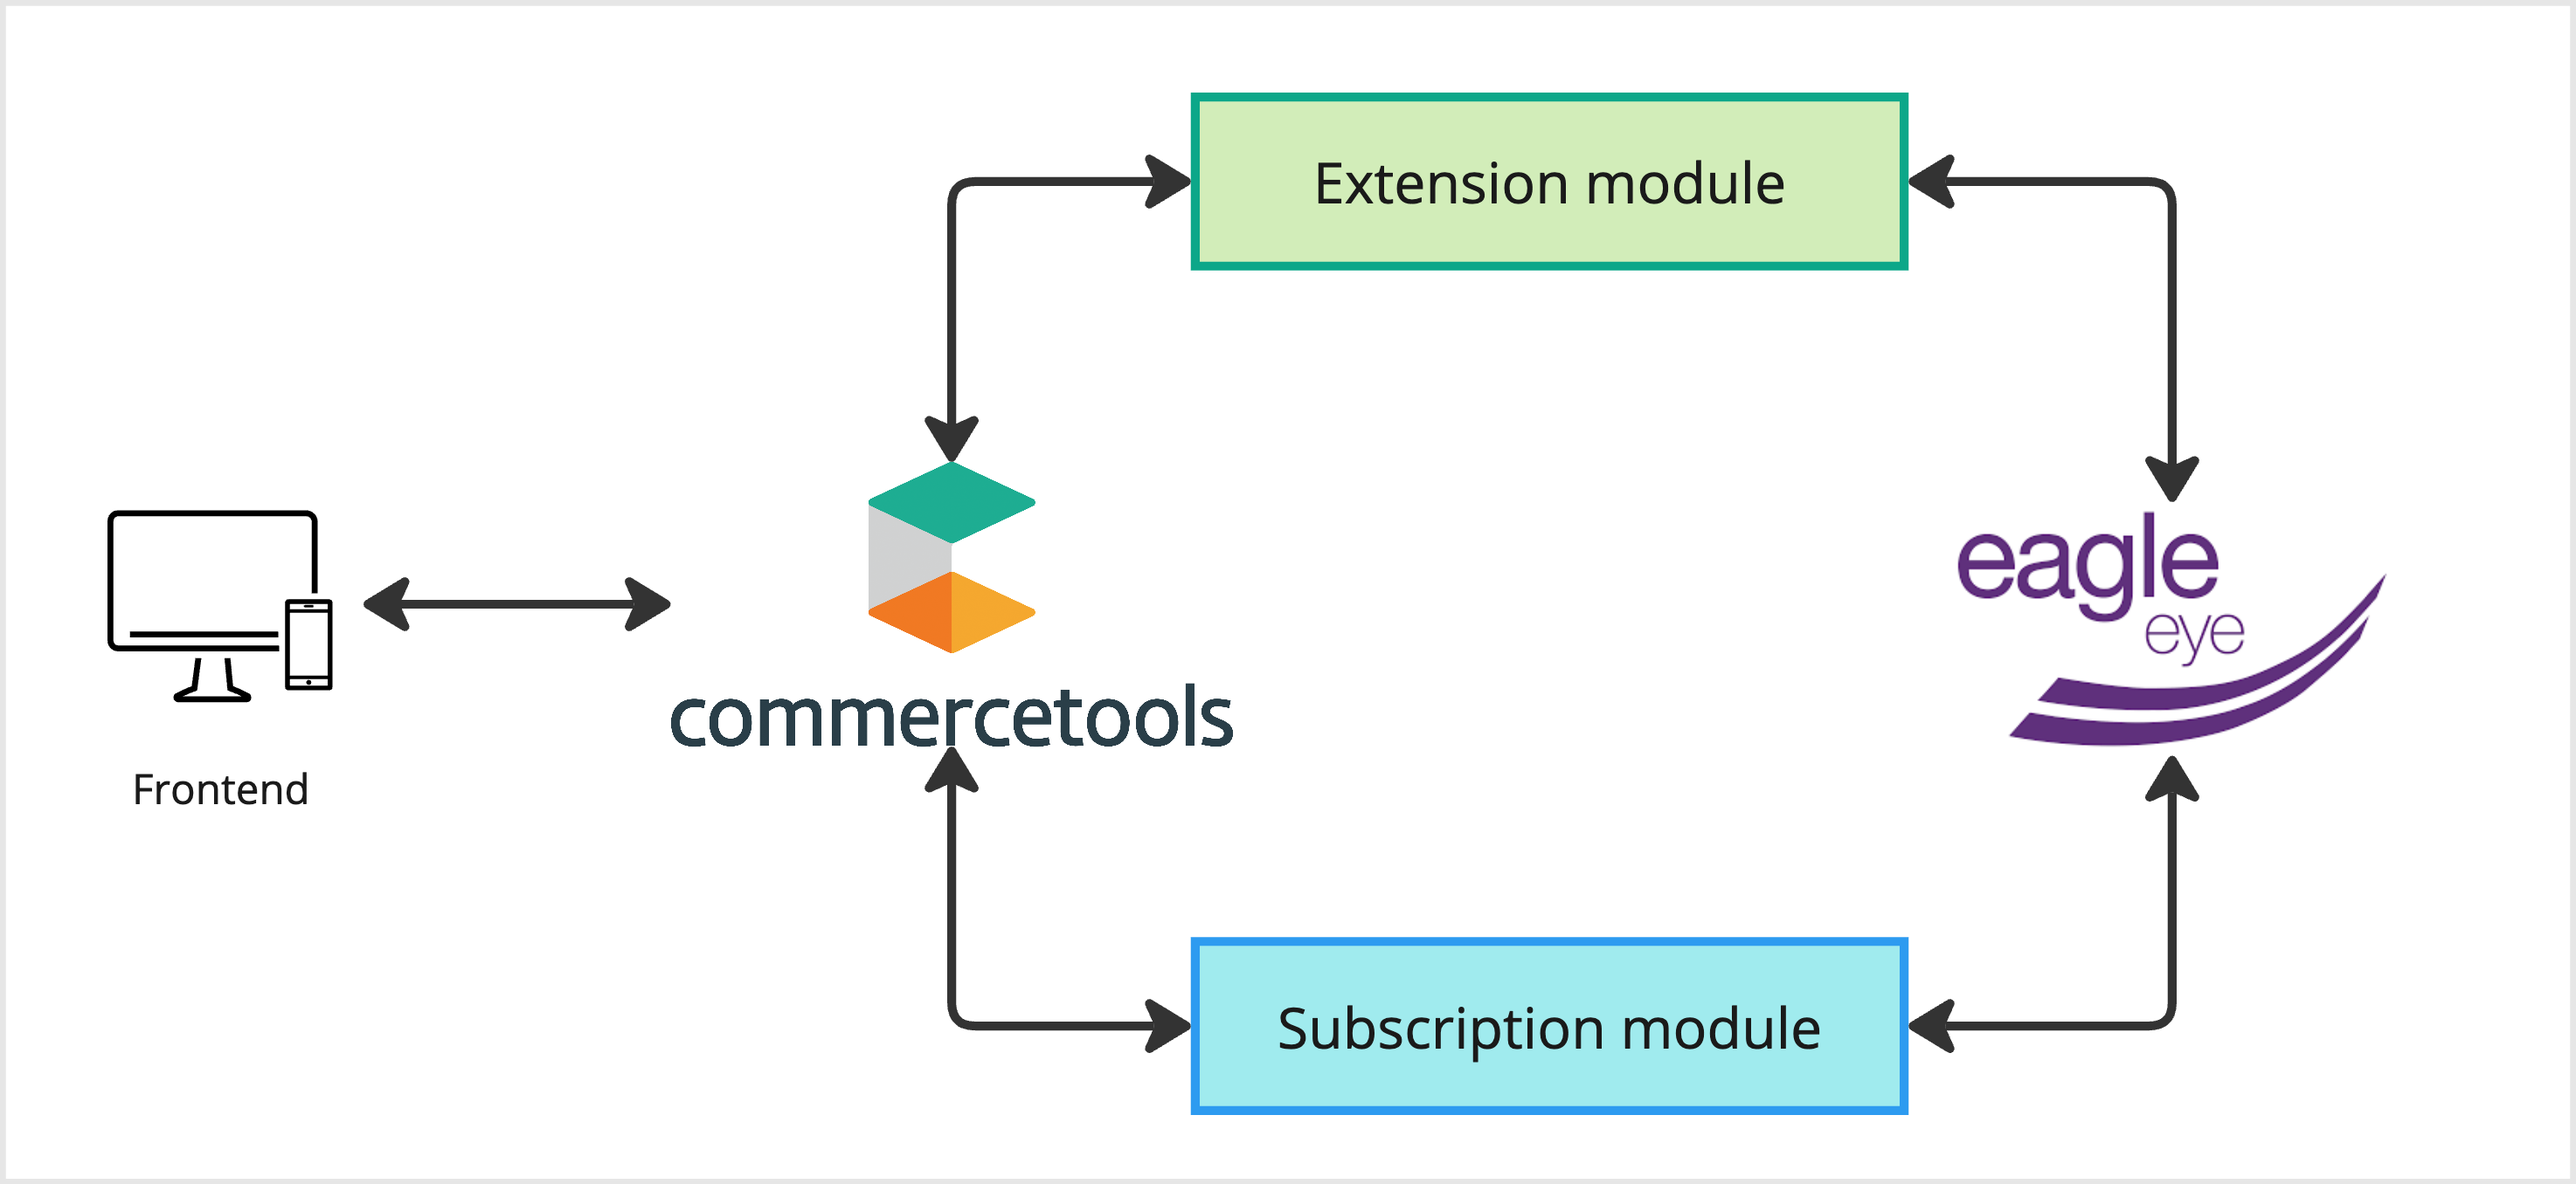
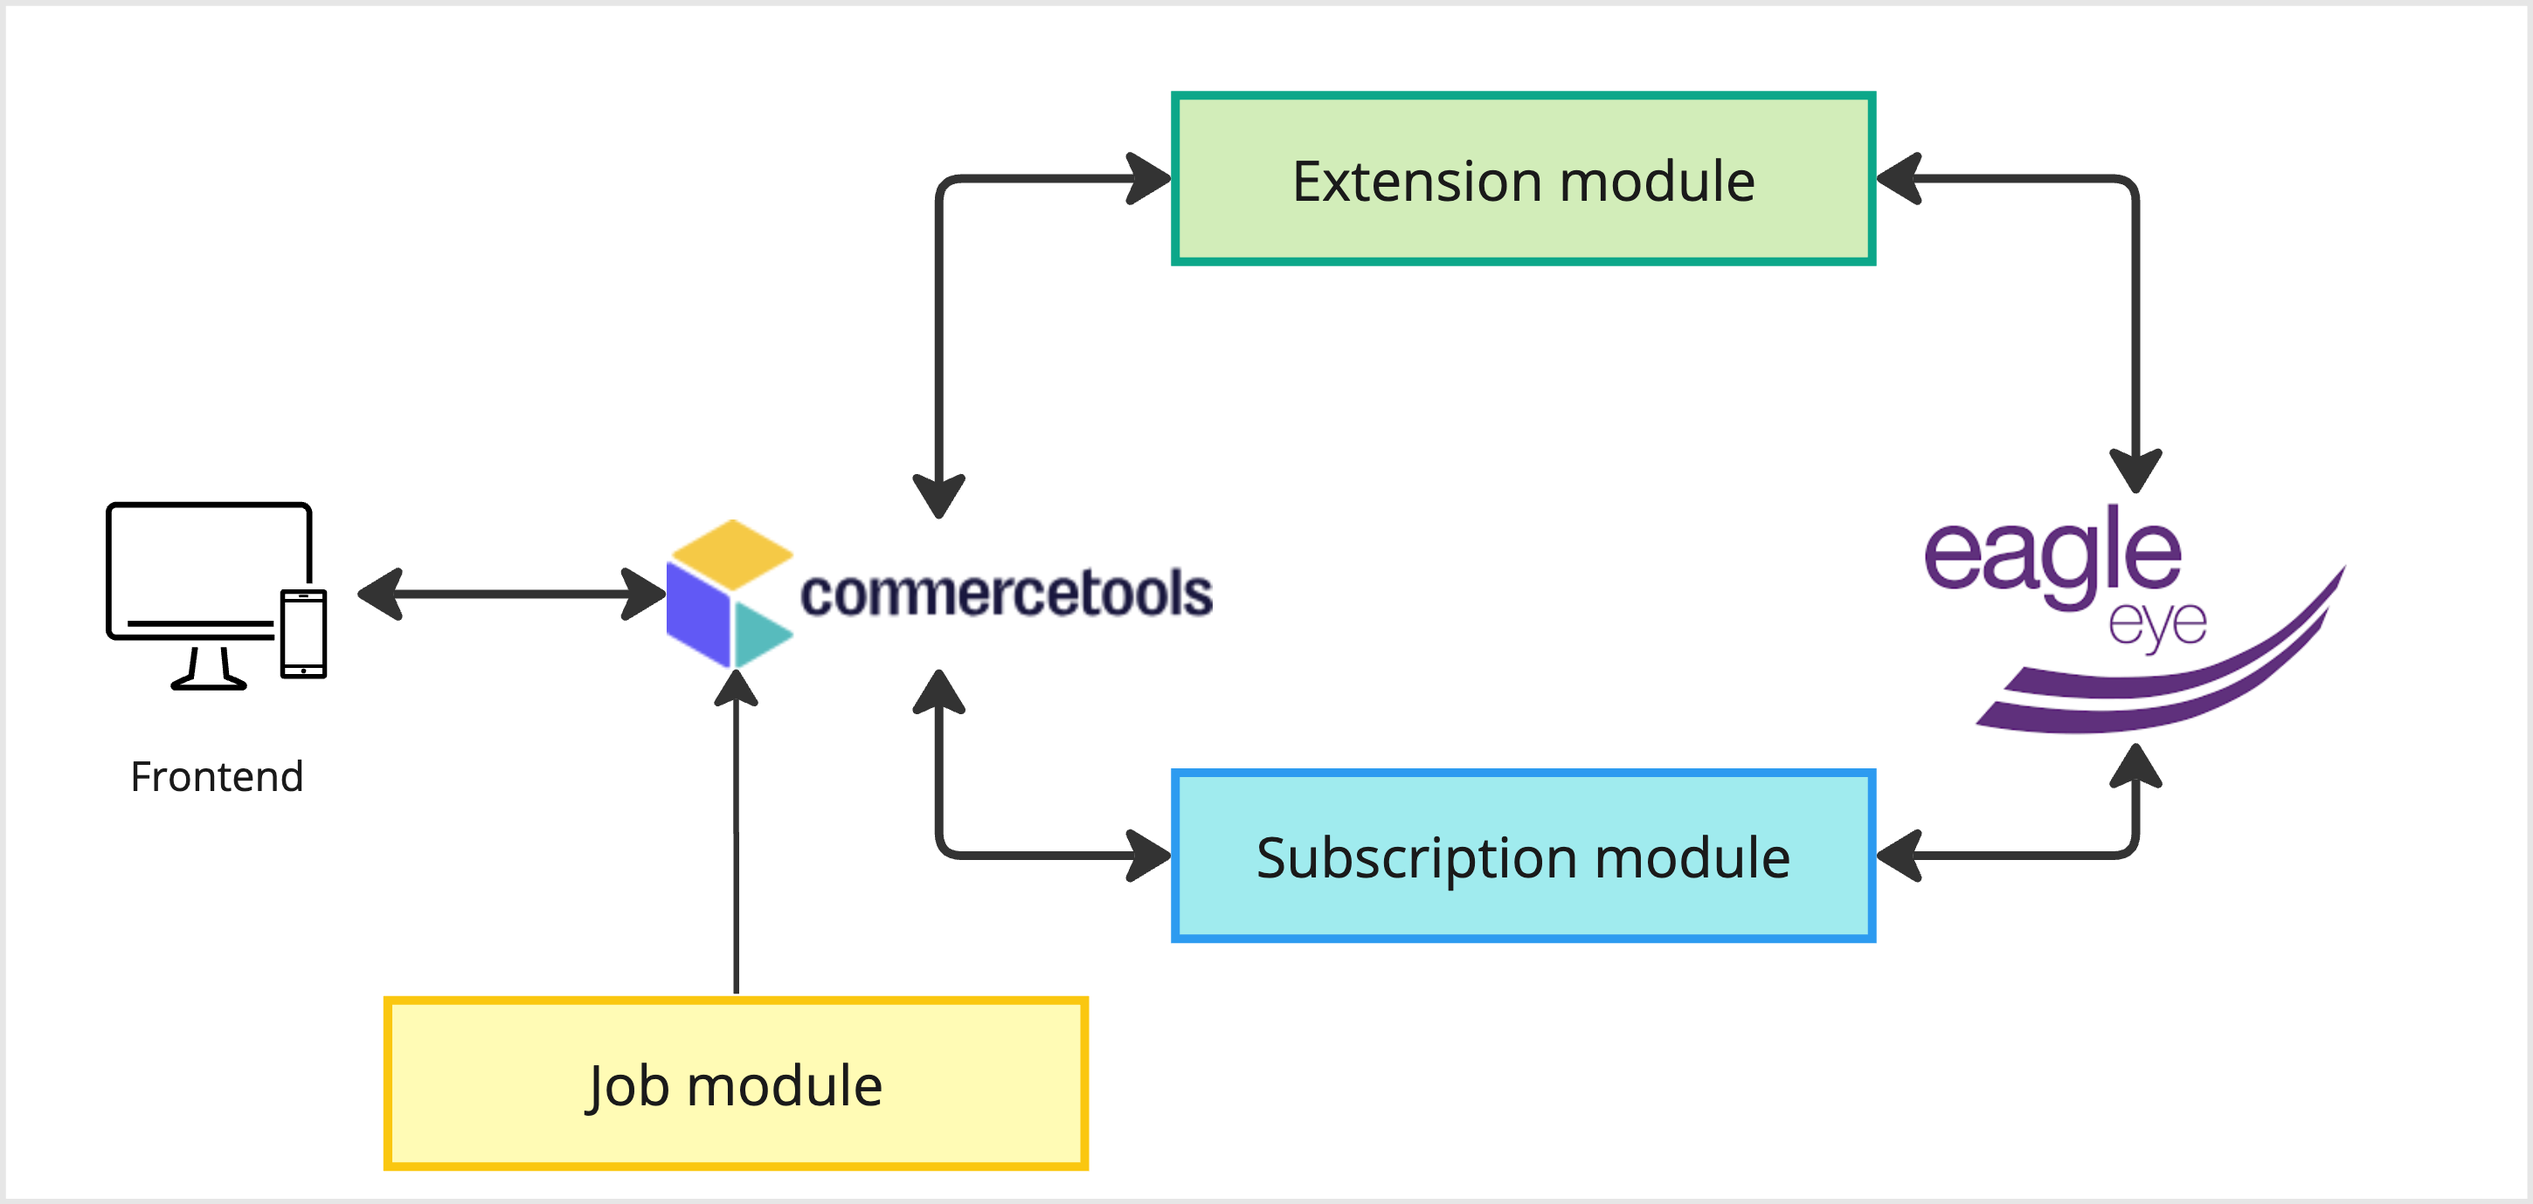
chore: update doc to include job module in the introduction

diff --git a/README.md b/README.md
@@ -10,17 +10,20 @@ provider.
 * Voucher codes
 * Loyalty points
 * Settling of the transaction
+* Enriched baskets cleanup
 
 ## Overview
 
-This repository provides a single Node JS application that can be deployed as an Extension module or a Subscription
-module.
+This repository provides a single Node JS application that contains three modules: the Extension module, the
+Subscription module and the Job module.
 
 ![alt text](integration/docs/images/ee-ct-integration-components.png "Integration components")
 
-* The Extension module is triggered on cart updates and adds to the cart promotions and loyalty points
+* The Extension module is triggered on cart updates and adds to the cart promotions and loyalty points.
 * The Subscription module is triggered when the order is updated and handles the settling of the transaction in Eagle
-  Eye
+  Eye.
+* The Job module is triggered by a cron job and handles the removal of old Eagle Eye enriched baskets from commercetools
+  custom objects.
 
 ## Plugin Installation
 
